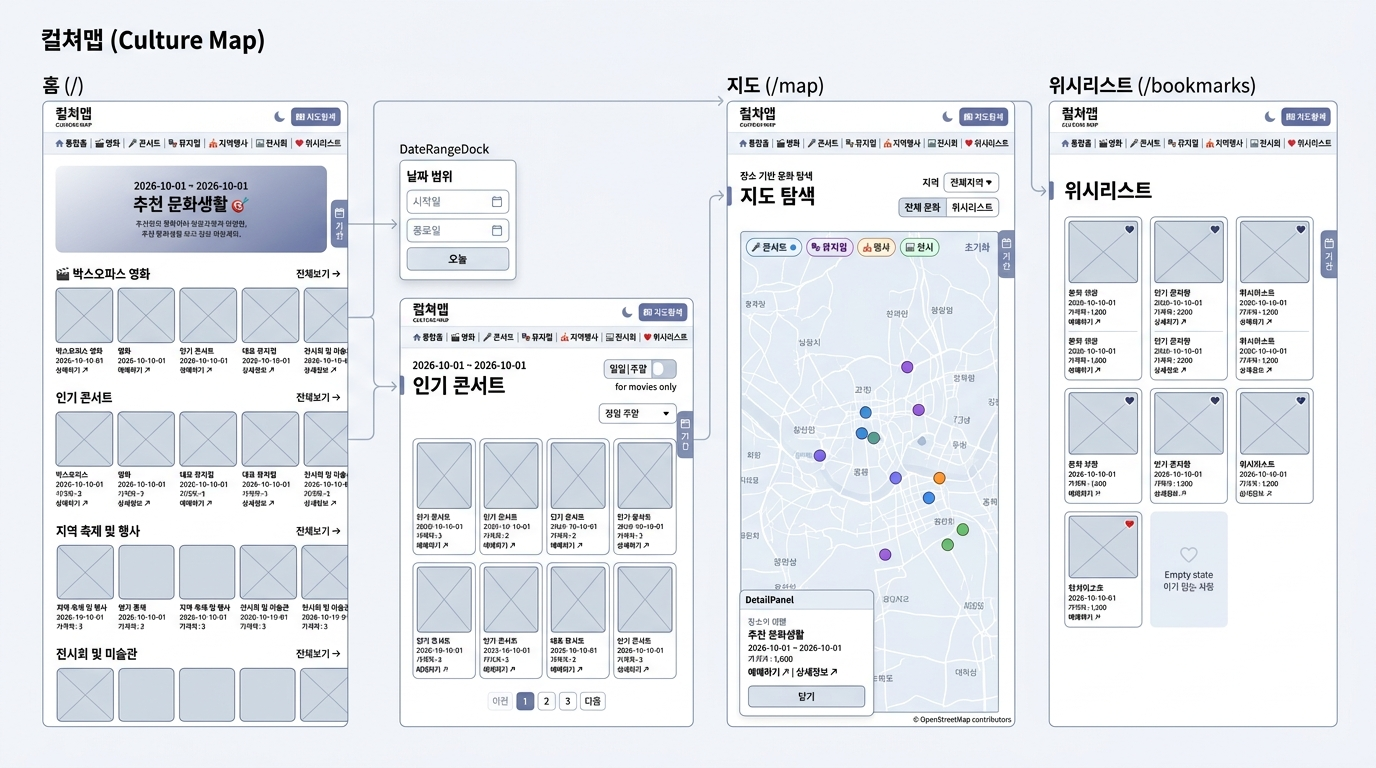
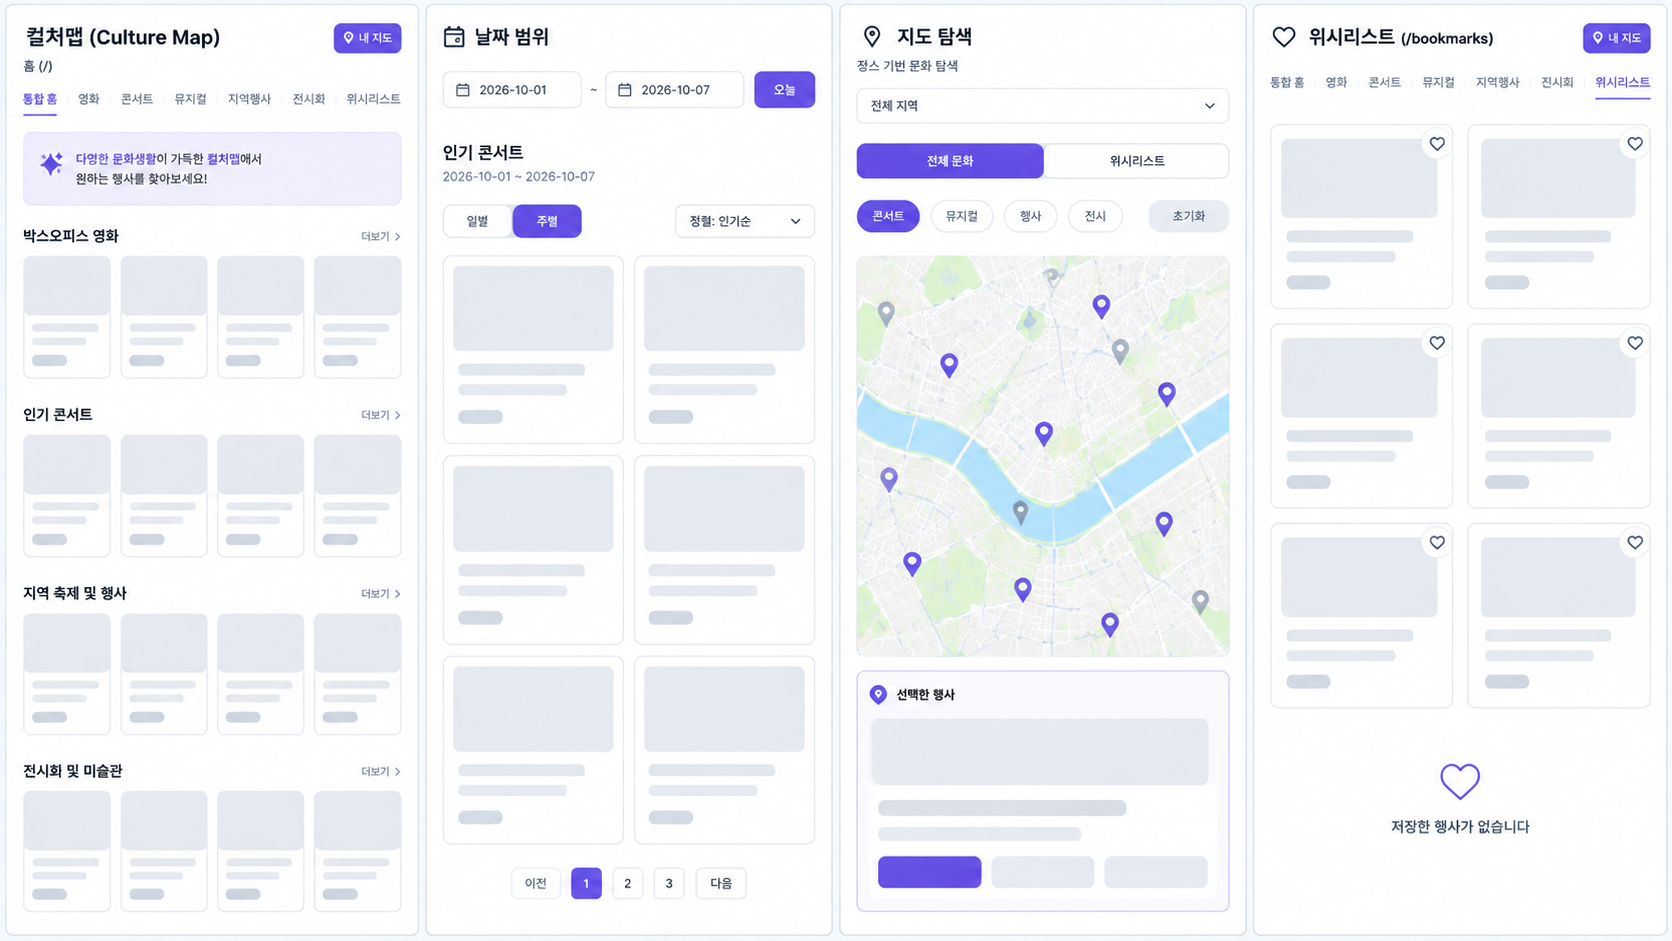
fix: API 기본 URL 로컬 주소로 변경 및 와이어프레임 이미지 업데이트

diff --git a/src/utils/api.js b/src/utils/api.js
@@ -1,6 +1,6 @@
 import { isEventInDateRange } from "@/utils/date";
 
-const BASE_URL = process.env.NEXT_PUBLIC_CULTURE_API_URL ?? "http://localhost:4000";
+const BASE_URL = "http://localhost:4000";
 
 export const CULTURE_CATEGORIES = [
   { key: "movie", endpoint: "movies", label: "영화", path: "/movies" },
